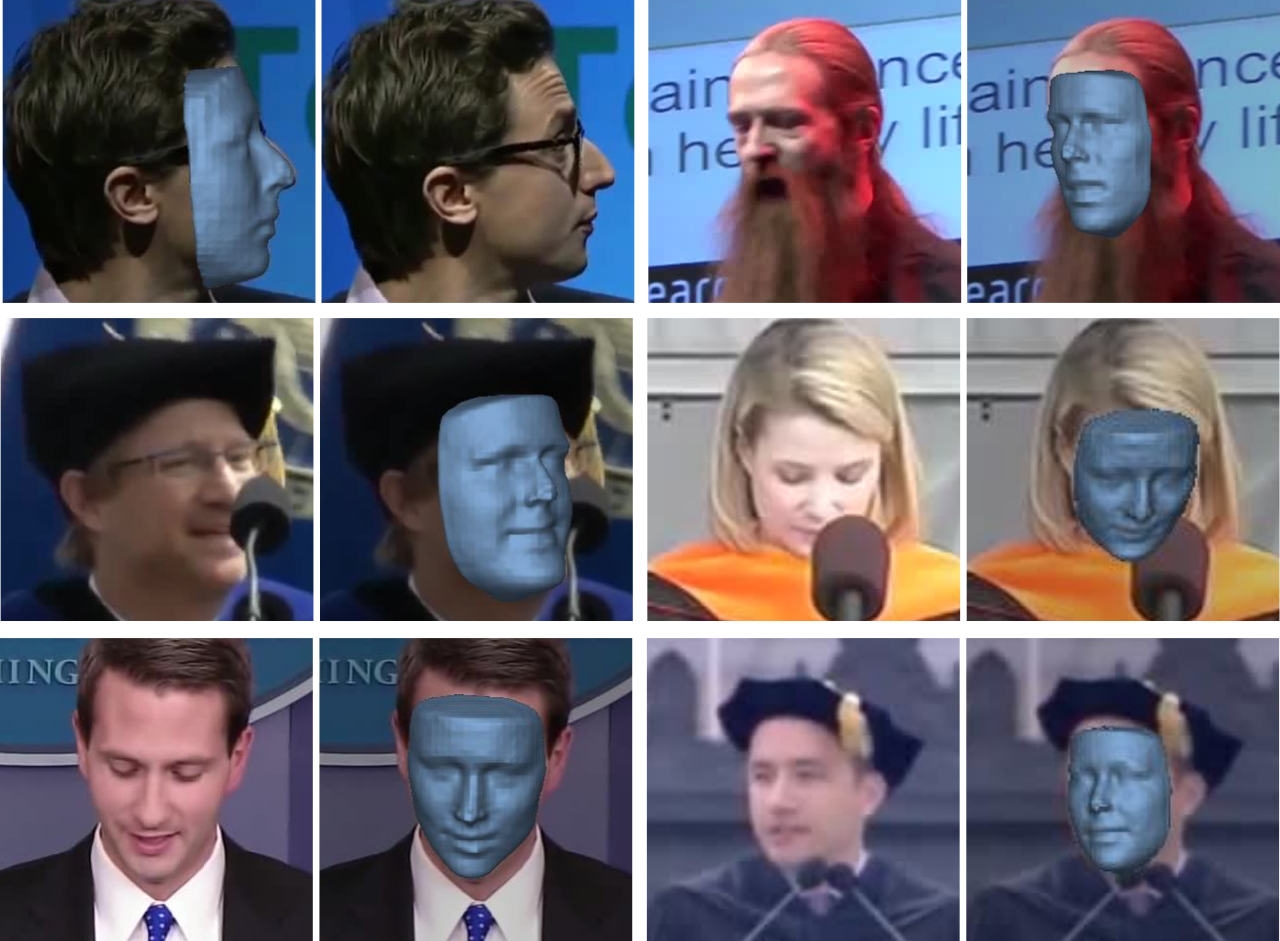
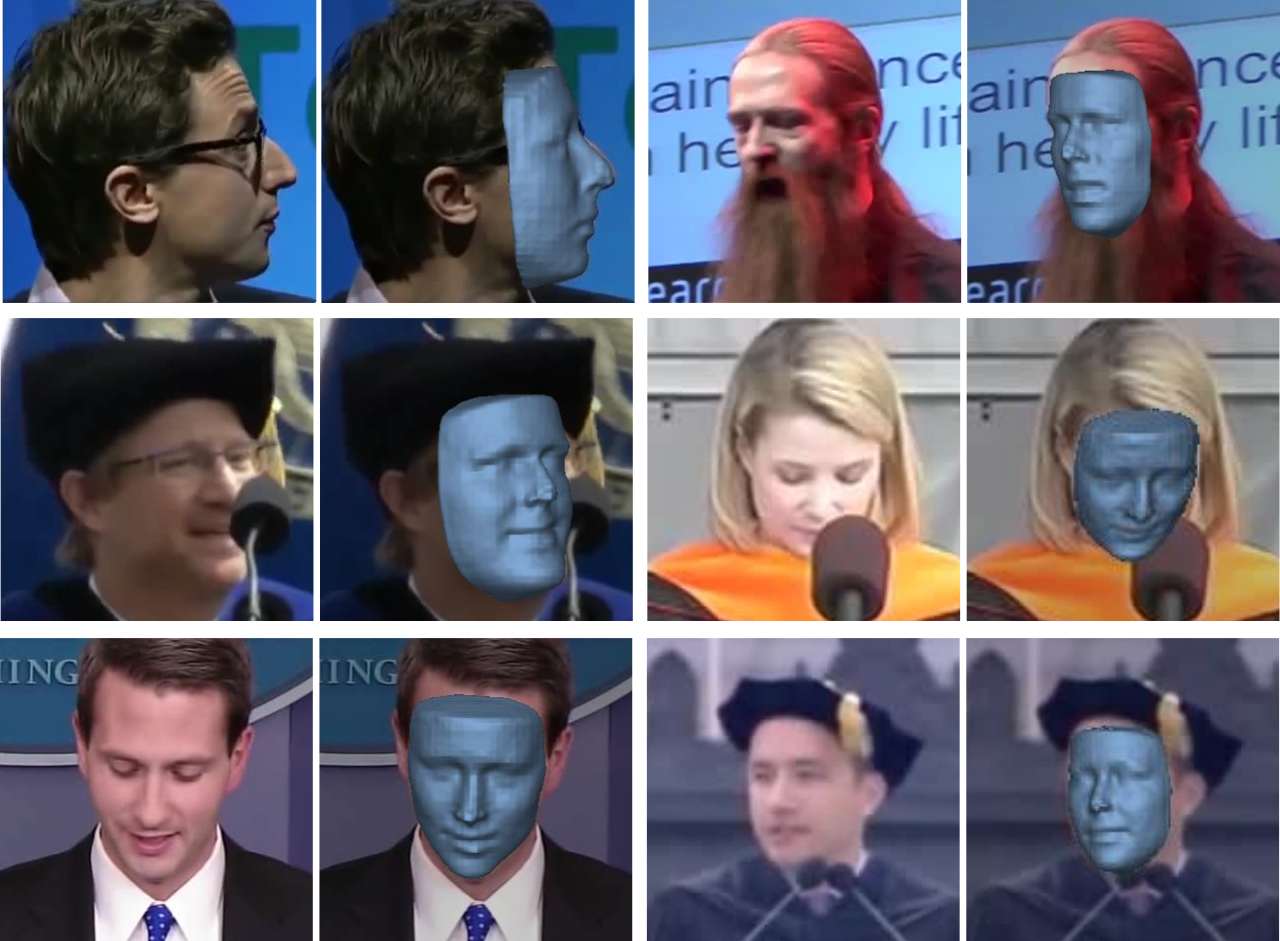
Roughly half way through corrections?
Just wanted to commit this before I move onto section
reshuffling. Still quite a few things to do. See corrections.org.

Changed region(s): [[0.0, 0.0, 0.375, 0.339], [0.3125, 0.0, 0.5, 0.339], [0.0, 0.0, 0.0625, 0.0925]]

diff --git a/chapter_faces/main.tex b/chapter_faces/main.tex
@@ -88,9 +88,10 @@ examples from 5 predominant approaches:
     romdhani2005estimating}, the most popular approach for estimating
   the full 3D facial structure from a single image (among others),
   training includes an iterative flow procedure for dense image
-  correspondence which is prone to failure. Additionally, testing requires a
-  careful initialisation for solving a difficult highly non-convex
-  optimization problem, which is slow.
+  correspondence which is prone to failure. Additionally, testing
+  requires a careful initialisation for solving a difficult highly
+  non-convex optimization problem in order to estimate the pose and
+  shape parameters, which is slow.
 \item The work of \cite{kemelmacher20113d}, a popular approach for
   2.5D reconstruction from a single image, formulates and solves a
   carefully initialised (for frontal images only) non-convex
@@ -180,11 +181,15 @@ approach of \cite{romdhani2005estimating}, careful initialisation and
 by constraining the solution using a sparse set of landmarks. Face
 profiling is then used to render each image to 10-15 different poses
 resulting in a large scale dataset (more than 60,000 2D facial images
-and 3D meshes) called 300W-LP. Note that because each mesh is
-produced by a 3DMM, the vertices of all produced meshes are in dense
-correspondence; however this is not a prerequisite for our method and
-unregistered raw facial scans could be also used if available
-(e.g. the BU-4DFE dataset~\cite{yin2008high}).
+and 3D meshes) called 300W-LP. Each mesh consists of approximately
+53000 vertices, enclosing the face entirely. However, no vertices
+exist around the mouth, base of neck and eyes, and as such, this mesh
+is not watertight. All images are $450 \times 450$, although these are
+downsampled to $386 \times 386$ during training. Note that because
+each mesh is produced by a 3DMM, the vertices of all produced meshes
+are in dense correspondence; however this is not a prerequisite for
+our method and unregistered raw facial scans could be also used if
+available (e.g. the BU-4DFE dataset~\cite{yin2008high}).
 
 \subsection{Proposed volumetric representation}
 
@@ -208,6 +213,7 @@ method~\cite{zhu2016face} in Section~\ref{S:Results}.
 \begin{figure}
   \centering
   \includegraphics[width=0.9\linewidth]{img/discretisation.pdf}
+
   \caption[Dataset voxelisation procedure]{The voxelisation process
     creates a volumetric representation of the 3D face mesh, aligned
     with the 2D image.}
@@ -224,15 +230,23 @@ by the 3D facial scan, and 0 otherwise. That is to say $ V_{whd}$ is
 the ground truth for voxel $\{w,h,d\}$ and is equal to 1, if voxel
 $\{w,h,d\}$ belongs to the 3D volumetric representation of the face
 and 0 otherwise (i.e. it belongs to the background). The conversion is
-shown in Figure~\ref{fig:discretisation}. Notice that the process
-creates a volume fully aligned with the 2D image. The importance of
-spatial alignment is analysed in more detail in
-Section~\ref{sec:spatialimportance}. The error caused by
-discretization for a randomly picked facial scan as a function of the
-volume size is shown in Figure~\ref{fig:voxerror}. Given that the error
-of state-of-the-art methods \cite{roth2016adaptive,liu2016joint} is of
-the order of a few mms, we conclude that discretization by
-$192\times 192\times 200$ produces negligible error.
+shown in Figure~\ref{fig:discretisation}. Contrary to standard
+approaches, this data was voxelised by rotating to frontal and
+estimating a depth map is estimated using bilinear interpolation. from
+which the volume is filled back to a fixed point. This results in the
+mouth becoming filled. Notice that the process creates a volume fully
+aligned with the 2D image. The importance of spatial alignment is
+analysed in more detail in Section~\ref{sec:spatialimportance}. The
+error caused by discretization for a randomly picked facial scan as a
+function of the volume size is shown in
+Figure~\ref{fig:voxerror}. Given that the error of state-of-the-art
+methods \cite{roth2016adaptive,liu2016joint} is of the order of a few
+mms, we conclude that discretization by $192\times 192\times 200$
+produces negligible error. Such a spatial resolution is ideal for the
+type of architecture we have chosen to use as it can be reduced by
+half many times. The depth, 200, was chosen to capture as much depth
+information as possible without sacrificing the spatial resolution or
+increasing the memory requirements too much.
 
 Given our volumetric facial representation, the problem of regressing
 the 3D coordinates of all vertices of a facial scan is reduced to one
@@ -291,6 +305,16 @@ output, and has an identical structure to that of the first one.
     \label{fig:cnnbaseline}
   \end{subfigure}
   ~
+  \begin{subfigure}[t]{1\textwidth}
+    \centering
+    \includegraphics[width=0.6\linewidth]{img/multitask.pdf}
+    \caption[Multitask reconstruction architecture]{The proposed
+      \textit{VRN - Multitask} architecture regresses both the 3D facial
+      volume and a set of sparse facial landmarks.}
+    \label{fig:cnnmultitask}
+    \vspace{-2mm}
+  \end{subfigure}
+  ~
   \begin{subfigure}[t]{0.98\textwidth}
     \centering
     \includegraphics[width=\linewidth]{img/guided.pdf}
@@ -302,19 +326,10 @@ output, and has an identical structure to that of the first one.
     \label{fig:guidednet}
   \end{subfigure}
   ~
-  \begin{subfigure}[t]{1\textwidth}
-    \centering
-    \includegraphics[width=0.6\linewidth]{img/multitask.pdf}
-    \caption[Multitask reconstruction architecture]{The proposed
-      \textit{VRN - Multitask} architecture regresses both the 3D facial
-      volume and a set of sparse facial landmarks.}
-    \label{fig:cnnmultitask}
-    \vspace{-2mm}
-  \end{subfigure}
   \caption[Overview of proposed architectures]{An overview of the
     proposed three architectures for Volumetric Regression:
     \textit{Volumetric Regression Network (VRN)}, \textit{VRN -
-      Guided} and \textit{VRN - Multitask}.}
+      Multitask} and \textit{VRN - Guided}.}
   \label{fig:cnnall}
   \vspace{-5mm}
 \end{figure*}
@@ -325,7 +340,14 @@ entropy loss function:
   \sum\limits_{h=1}^{H}\sum\limits_{d=1}^{D}[V_{whd}\log
   \widehat{V}_{whd}+(1-V_{whd})\log(1-\widehat{V}_{whd})],
 \end{equation} where $\widehat{V}_{whd}$ is the corresponding Sigmoid
-output at voxel $\{w,h,d\}$ of the regressed volume.
+output at voxel $\{w,h,d\}$ of the regressed volume. In the case of
+\textit{VRN - Multitask}, the same loss is applied to both tails of
+the network with even weightings. Similarly, in \textit{VRN - Guided},
+the loss is also applied to the heatmap regression and hence the loss
+is summed during backpropagation.
+
+Each residual module of all three of our architectures consists of 256
+feature spatial convolutions.
 
 At test time, and given an input 2D image, the network regresses a 3D
 volume from which the outer 3D facial mesh is recovered. Rather than
@@ -383,11 +405,17 @@ this network \textit{VRN - Guided}.
 % Trained with RMSProp
 Each of our architectures was trained end-to-end using RMSProp with an
 initial learning rate of $10^{-4}$, which was lowered after 40 epochs
-to $10^{-5}$. During training, random augmentation was applied to each
-input sample (face image) and its corresponding target (3D volume): we
-applied in-plane rotation $r\in[-45^{\circ}, ..., 45^{\circ}]$,
-translation $t_z,t_y\in[-15,...,15]$ and scale $s\in [0.85,...,1.15]$
-jitter. In 20\% of cases, the input and target were flipped
+to $10^{-5}$. This training protocol remained fixed for all
+architectures to avoid bias. The number of epochs were chosen based on
+the rate at which the learning rate fell during training of
+\textit{VRN} and some tests using the testing set of the
+HELEN~\cite{le2012interactive} images from
+300W~\cite{sagonas2013semi} as validation. During training,
+random augmentation was applied to each input sample (face image) and
+its corresponding target (3D volume): we applied in-plane rotation
+$r\in[-45^{\circ}, ..., 45^{\circ}]$, translation
+$t_z,t_y\in[-15,...,15]$ and scale $s\in [0.85,...,1.15]$ jitter. In
+20\% of cases, the input and target were flipped
 horizontally. Finally, the input samples were adjusted with some
 colour scaling on each RGB channel selected uniformly
 $c_r,c_g,c_b \in \{0.6,...,1.4\}$.
@@ -405,15 +433,6 @@ different standard deviations.
 
 \section{Results} \label{S:Results}
 
-\begin{figure}
-  \centering
-  \includegraphics[width=0.7\linewidth]{img/aflw2000res.pdf}
-  \caption[Visual results on AFLW2000-3D dataset]{Some visual results
-    from the AFLW2000-3D dataset generated using our \textit{VRN -
-      Guided} method.}
-  \label{fig:aflw2000res}
-  \vspace{-4mm}
-\end{figure}
 
 \begin{figure}
   \centering
@@ -471,6 +490,16 @@ different standard deviations.
   \vspace{-4mm}
 \end{table}
 
+\begin{figure}
+  \centering
+  \includegraphics[width=0.7\linewidth]{img/aflw2000res.pdf}
+  \caption[Visual results on AFLW2000-3D dataset]{Some visual results
+    from the AFLW2000-3D dataset generated using our \textit{VRN -
+      Guided} method.}
+  \label{fig:aflw2000res}
+  \vspace{-4mm}
+\end{figure}
+
 
 We performed cross-database experiments only, on 3 different
 databases, namely AFLW2000-3D, BU-4DFE, and Florence reporting the
@@ -502,8 +531,10 @@ dataset in Figure~\ref{fig:face300vw}. From all of these results, we
 can conclude the following:
 \begin{enumerate}
 \item Volumetric Regression Networks largely outperform 3DDFA and EOS
-  on all datasets, verifying that directly regressing the 3D facial
-  structure is a much easier problem for CNN learning.
+  on all datasets used for evaluation, statistically significant in
+  all cases ($p < 0.01$, paired $t$-test). This verifies that directly
+  regressing the 3D facial structure using the volumetric
+  representation, is a much easier problem for CNN learning.
 \item All VRNs perform well across the whole spectrum of facial poses,
   expressions and occlusions. Also, there are no significant performance
   discrepancies across different datasets (ALFW2000-3D seems to be
@@ -512,9 +543,10 @@ can conclude the following:
   (\textit{VRN - Guided}), however at the cost of higher computational
   complexity: \textit{VRN - Guided} uses another stacked hourglass
   network for landmark localization.
-\item \textit{VRN - Multitask} does not always perform particularly
-  better than the plain VRN (in fact on BU-4DFE it performs worse), not
-  justifying the increase of network complexity. It seems that it might
+\item \textit{VRN - Multitask} does not always perform better than the
+  plain VRN (in fact on BU-4DFE it performs worse), not justifying the
+  increase of network complexity. The results are not significant on
+  any dataset ($p > 0.10$, paired $t$-test).  It seems that it might
   be preferable to train a network to focus on the task in hand.
 \end{enumerate}
 
@@ -598,12 +630,15 @@ truth reconstruction normalised by the outer 3D interocular distance:
   \textrm{NME} = \frac{1}{N} \sum_{k=1}^{N} \frac{||\mathbf{x}_k-\mathbf{y}_{k} ||_{2} }{d}, \label{eq:err}
 \end{equation}
 where $N$ is the number of vertices per facial mesh, $d$ is the 3D
-interocular distance and $\mathbf{x}_k$,$\mathbf{y}_k$ are vertices of
-the grouthtruth and predicted meshes. The error is calculated on the
-face region only on approximately 19,000 vertices per facial
-mesh. Notice that when there is no point correspondence between the
-ground truth and the estimated mesh, ICP was used but only to
-establish the correspondence, i.e. the rigid alignment was not
+outer interocular distance and $\mathbf{x}_k$,$\mathbf{y}_k$ are
+vertices of the grouthtruth and predicted meshes. This outer
+interocular distance is the distance between the two lateral canthus,
+which is the most outer part of the eye. As this is in 3D, the
+distance remains fixed even when the face is rotated. The error is
+calculated on the face region only on approximately 19,000 vertices
+per facial mesh. Notice that when there is no point correspondence
+between the ground truth and the estimated mesh, ICP was used but only
+to establish the correspondence, i.e. the rigid alignment was not
 used. If the rigid alignment is used, we found that, for all methods,
 the error decreases but it turns out that the relative difference in
 performance remains the same. For completeness, we included these
@@ -626,7 +661,8 @@ performed using v0.12 of EOS.
 
 We present results where ICP has been used not only to find the
 correspondence between the groundtruth and predicted vertices, but
-also to remove the rigid transformation between them. We find that
+also to remove the rigid transformation between them. ICP was applied
+after the surface extraction was used to create the mesh. We find that
 this offers a marginal improvement to all methods. However, the
 relative performance remains mostly the same between each
 method. Results on AFLW2000~\cite{zhu2016face},
@@ -752,10 +788,11 @@ rendered frontal images in difference expressions from BU-4DFE (since
 Florence only exhibits a neutral expression) and measured the
 performance for each expression. We show the six acted facial
 expressions which are available in BU-4DFE in
-Figure~\ref{fig:bu4dfe_expressions}. This kind of extreme acted facial
-expressions generally do not occur in the training set, yet as shown
-in Figure~\ref{fig:effect_expression}, the performance variation
-across different expressions is quite minor.
+Figure~\ref{fig:bu4dfe_expressions}. These expressions are available
+for all participants, of which there are 102. This kind of extreme
+acted facial expressions generally do not occur in the training set,
+yet as shown in Figure~\ref{fig:effect_expression}, the performance
+variation across different expressions is quite minor.
 
 \begin{figure}
   \centering
@@ -919,7 +956,7 @@ performance of the \textit{Lighter} network is clearly worse - the
 surface is not as smooth and the facial expression is not captured as
 clearly as in both \textit{Heavy} and \textit{Light}.
 
-\subsection{A Volumetric \textit{Volumetric Regression Network}}
+\subsection{A Volumetric Implementation}
 \label{sec:arc_volumetric}
 
 One of the main contributions of this chapter is to show that good

diff --git a/chapter_humans/main.tex b/chapter_humans/main.tex
@@ -325,7 +325,7 @@ _{whd})],
 where $\widehat{V}_{whd}$ is the corresponding sigmoid output at voxel
 $\{w,h,d\}$.
 
-\subsection{\textit{Ours - Multistack}}
+\subsection{Multistack}
 
 \begin{figure}
   \includegraphics[width=\linewidth]{img/multistack.pdf}
@@ -353,7 +353,7 @@ benefit to adding more than four hourglass networks as the performance
 just fluctuates as more are added. This network is depicted in
 Figure~\ref{fig:multistack}.
 
-\subsection{\textit{Ours - Image Only}} % multistack-nolandmarks
+\subsection{Image Only} % multistack-nolandmarks
 
 Our standard network (\textit{Ours - Multistack}) is trained to
 receive guidance from the landmarks, while also using useful
@@ -363,7 +363,7 @@ identical. We call this network \textit{Ours - Image Only}. We expect
 that the performance of this network be significantly lower than when
 guidance from the human pose is also provided.
 
-\subsection{\textit{Ours - Landmarks Only}} % vrn-noimg
+\subsection{Landmarks Only} % vrn-noimg
 
 Many methods, such
 as~\cite{bogo2016smplify,ramakrishna2012reconstructing}, use only the
@@ -376,7 +376,7 @@ high quality training data is available, our method can regress these
 fine details and match the body shape when also provided with the
 image.
 
-\subsection{\textit{Ours - Mask Only}}
+\subsection{Mask Only}
 
 Our method does not rely on a segmentation mask, as is the case
 in~\cite{sigal2008combined}. However, there is no reason why our
@@ -390,7 +390,7 @@ layer receiving a different number of inputs. We expect this network
 to perform quite well since the segmentation mask we are providing to
 the network is the projection of the target volume.
 
-\subsection{\textit{Ours - 3D Convolution}}
+\subsection{3D Convolution}
 
 \begin{figure}
   \centering

diff --git a/chapter_literature/main.tex b/chapter_literature/main.tex
@@ -187,16 +187,21 @@ occlusions and facial expressions.
 
 \subsection{Depth Estimation}
 
-Finally, depth estimation - while typically applied to problems such
-as room reconstruction, there are a couple of methods which attempt to
-reconstruct the face by estimating the
-depth~\cite{sun2011depth,sun2013depth}. In~\cite{sun2011depth}, a
+Depth estimation refers to the problem of estimating how far away each
+pixel of an image would be, either relative to the other objects in
+the image, or from the camera (i.e. real world space). Depth
+estimation is typically applied to problems such as room
+reconstruction, where only distances are required and not the full
+geometry of every object in the room. Despite this, there are a couple
+of methods which attempt to reconstruct the face by estimating the
+depth from an image~\cite{sun2011depth,sun2013depth}. In~\cite{sun2011depth}, a
 constrained Independent Component Analysis (ICA) model is used to
 analyse multiple facial images of the same subject, from which the 3D
 geometry is obtained. An almost identical method is presented
 in~\cite{sun2013depth}, except instead of using an ICA model, a
 nonlinear Least-Squares model is used, offering a small performance
 improvement over~\cite{sun2011depth}.
+
 
 %%%%%%%%%%%%%%% Our Method
 \subsection{Where does our work fit in?}
